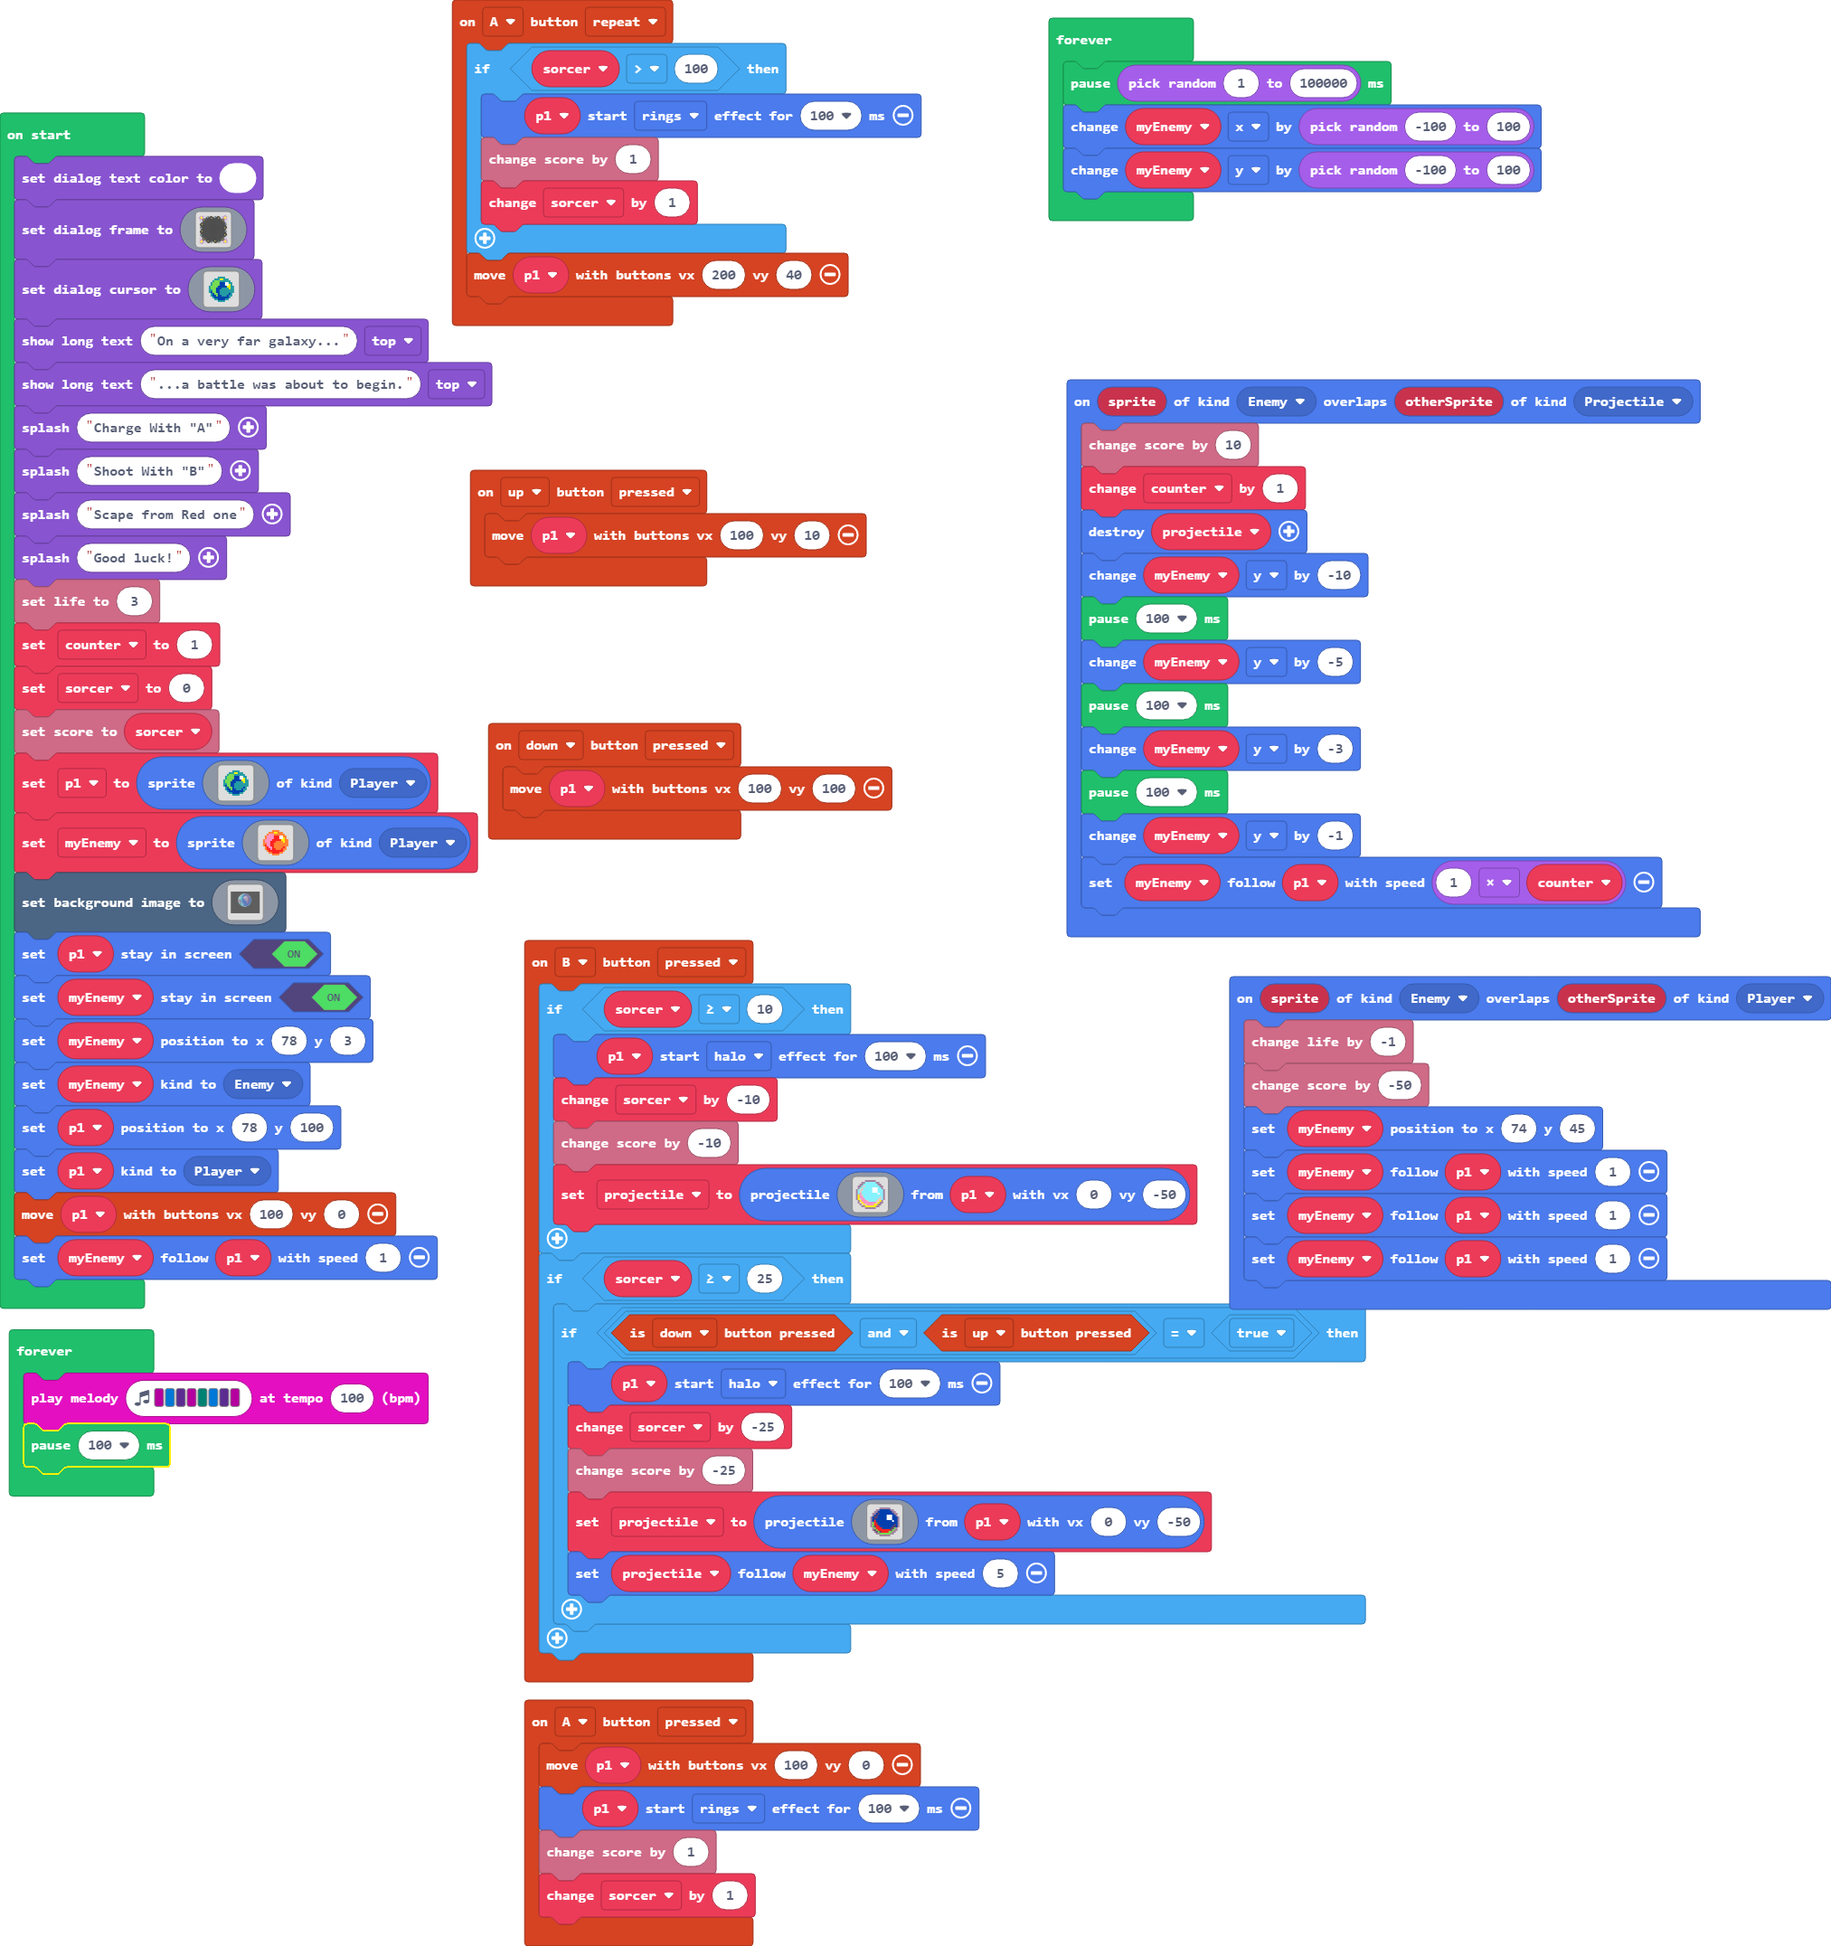
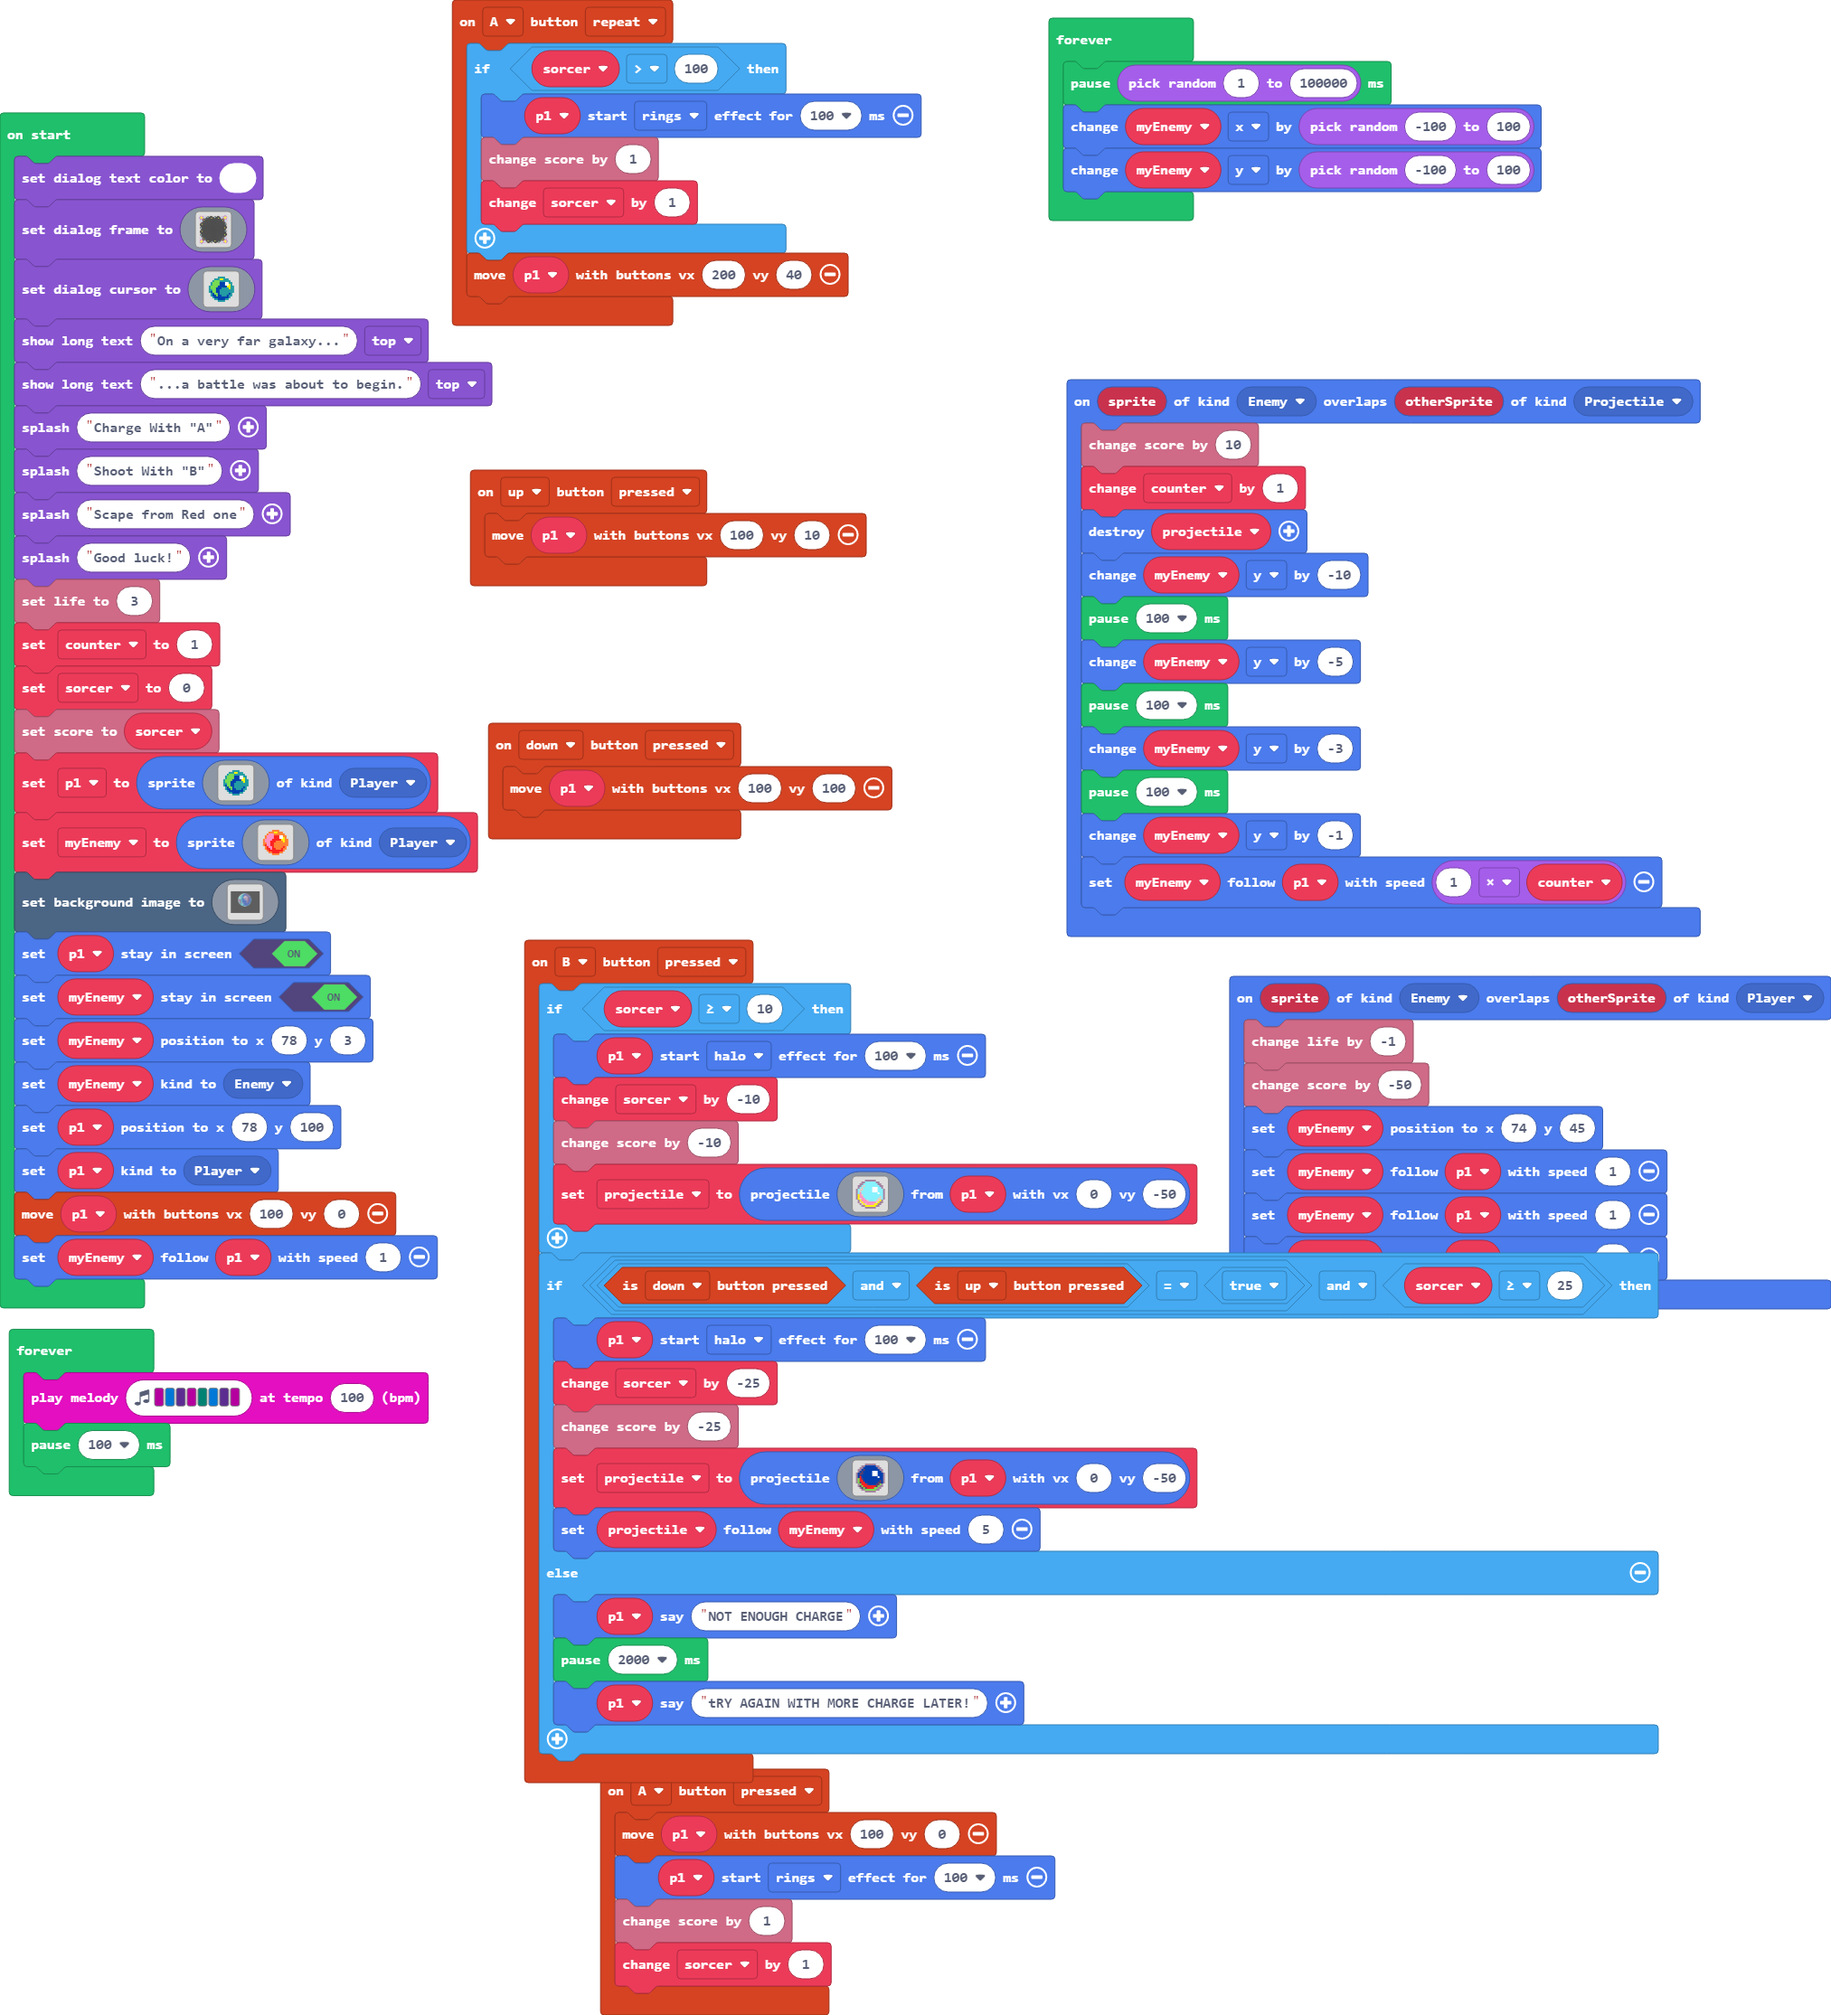
text on player

diff --git a/main.ts b/main.ts
@@ -25,31 +25,33 @@ controller.B.onEvent(ControllerButtonEvent.Pressed, function () {
             . . . . . b b b b b b . . . . . 
             `, p1, 0, -50)
     }
-    if (sorcer >= 25) {
-        if ((controller.down.isPressed() && controller.up.isPressed()) == true) {
-            p1.startEffect(effects.halo, 100)
-            sorcer += -25
-            info.changeScoreBy(-25)
-            projectile = sprites.createProjectileFromSprite(img`
-                . . . . . b b b b b b . . . . . 
-                . . . b b 8 8 8 8 8 8 b b . . . 
-                . . b b 8 8 8 8 8 8 8 8 b b . . 
-                . b b 8 c 8 8 8 8 8 8 8 8 b b . 
-                . b 8 c 8 8 8 8 8 1 1 1 8 8 b . 
-                b 8 c c 8 8 8 8 8 1 1 1 8 8 8 b 
-                b 8 c 8 8 8 8 8 8 1 1 1 8 8 8 b 
-                b 8 2 8 8 8 8 8 8 8 8 8 1 8 8 b 
-                b 7 2 c 8 8 8 8 8 8 8 8 8 8 8 b 
-                b 7 2 2 8 8 8 8 8 8 8 8 8 c 8 b 
-                b 7 c 2 2 8 8 8 8 8 8 8 c c 8 b 
-                . b 7 2 2 2 c 8 8 8 8 c c 7 b . 
-                . b c 7 2 2 2 2 2 2 2 c 7 b b . 
-                . . b c 7 c 2 2 2 2 7 7 b b . . 
-                . . . b b 7 7 7 7 7 7 b b . . . 
-                . . . . . b b b b b b . . . . . 
-                `, p1, 0, -50)
-            projectile.follow(myEnemy, 5)
-        }
+    if ((controller.down.isPressed() && controller.up.isPressed()) == true && sorcer >= 25) {
+        p1.startEffect(effects.halo, 100)
+        sorcer += -25
+        info.changeScoreBy(-25)
+        projectile = sprites.createProjectileFromSprite(img`
+            . . . . . b b b b b b . . . . . 
+            . . . b b 8 8 8 8 8 8 b b . . . 
+            . . b b 8 8 8 8 8 8 8 8 b b . . 
+            . b b 8 c 8 8 8 8 8 8 8 8 b b . 
+            . b 8 c 8 8 8 8 8 1 1 1 8 8 b . 
+            b 8 c c 8 8 8 8 8 1 1 1 8 8 8 b 
+            b 8 c 8 8 8 8 8 8 1 1 1 8 8 8 b 
+            b 8 2 8 8 8 8 8 8 8 8 8 1 8 8 b 
+            b 7 2 c 8 8 8 8 8 8 8 8 8 8 8 b 
+            b 7 2 2 8 8 8 8 8 8 8 8 8 c 8 b 
+            b 7 c 2 2 8 8 8 8 8 8 8 c c 8 b 
+            . b 7 2 2 2 c 8 8 8 8 c c 7 b . 
+            . b c 7 2 2 2 2 2 2 2 c 7 b b . 
+            . . b c 7 c 2 2 2 2 7 7 b b . . 
+            . . . b b 7 7 7 7 7 7 b b . . . 
+            . . . . . b b b b b b . . . . . 
+            `, p1, 0, -50)
+        projectile.follow(myEnemy, 5)
+    } else {
+        p1.say("NOT ENOUGH CHARGE")
+        pause(2000)
+        p1.say("tRY AGAIN WITH MORE CHARGE LATER!")
     }
 })
 controller.A.onEvent(ControllerButtonEvent.Pressed, function () {
